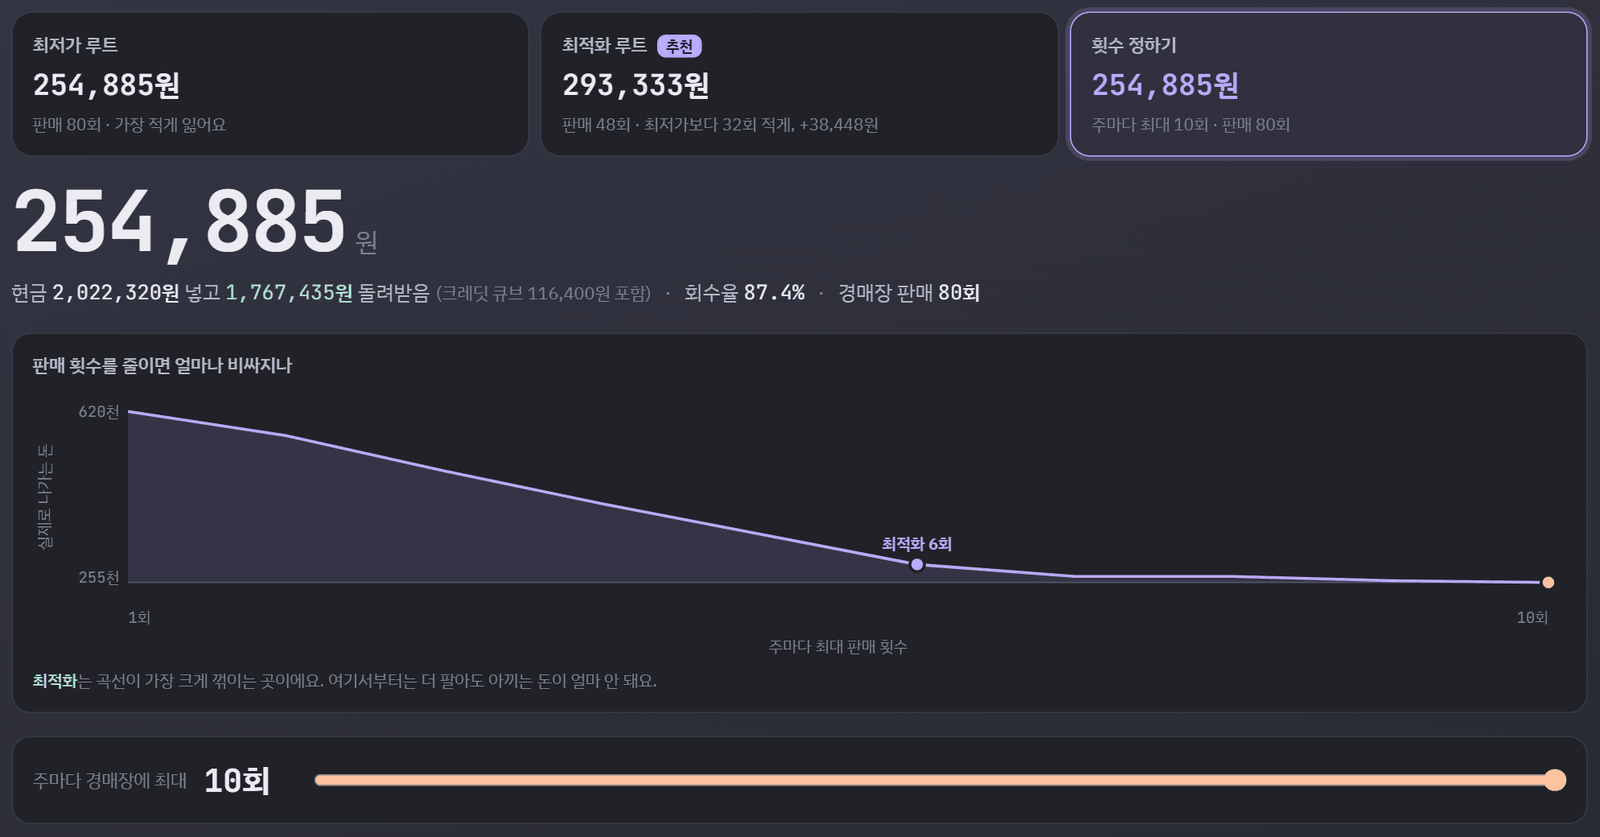
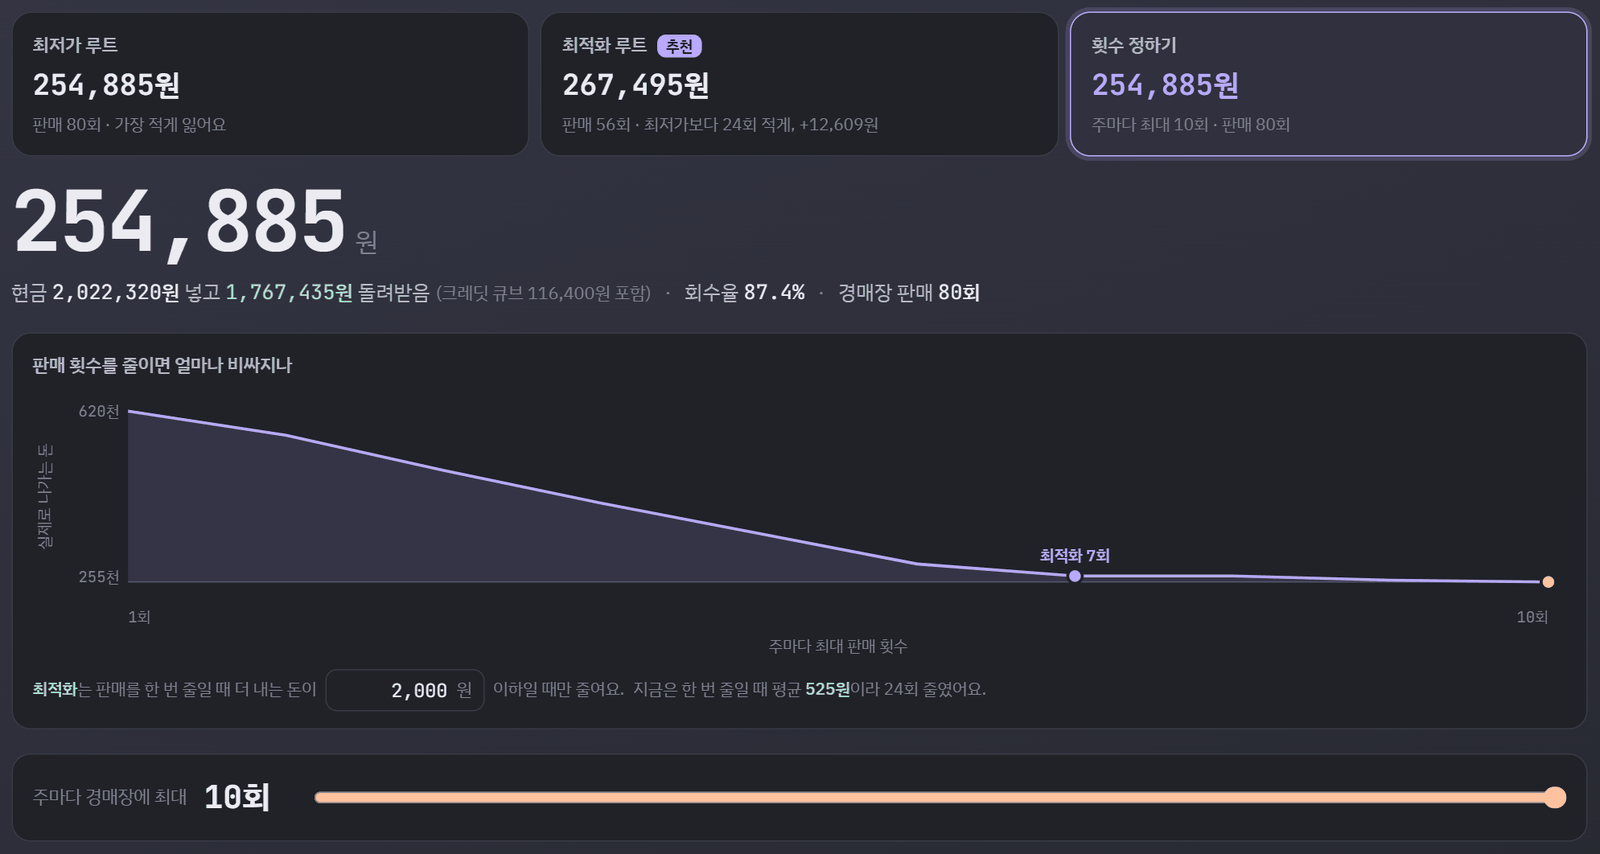
최적화 수고비 기본값을 2,000원으로 하고 소개글 그림을 새로 찍는다

diff --git a/docs/post/eff-inven.html b/docs/post/eff-inven.html
@@ -1,0 +1,102 @@
+<div style="font-size:16px; line-height:1.75; color:#22252b;">
+
+<div style="background:#1b1c21; border-radius:12px; padding:22px; margin:0 0 26px; text-align:center;">
+<a href="https://maple-mvp.com" target="_blank" style="font-size:29px; font-weight:700; color:#b8a8ff; letter-spacing:-0.5px; text-decoration:none;">maple-mvp.com</a>
+<div style="margin-top:6px; font-size:14px; color:#9a9cab;">위쪽 탭에서 <b style="color:#ecebf2;">효율표</b>를 누르세요</div>
+</div>
+
+<div style="margin-bottom:16px;">안녕하세요. 지난번에 올렸던 MVP 현황/목표 계산기에 <b>엠작 효율표</b>를 붙였습니다.</div>
+<div style="margin-bottom:20px;">엠작 계산기들이 회수율 %는 알려 주는데, 막상 "그래서 실제로 얼마가 나가는데? 뭘 몇 개 사서 어떻게 팔아야 하는데?"는 직접 조합해 봐야 하더라고요. 그걸 한 화면에서 끝내 주는 탭입니다.</div>
+
+<ul style="margin:0 0 20px; padding-left:22px;">
+<li style="margin-bottom:6px;"><b>플가 가격 하나만 넣으면</b> 다른 아이템마다 "이 가격 넘으면 플가보다 이득"인 기준가가 붙어요</li>
+<li style="margin-bottom:6px;">가장 적게 잃는 <b>최저가 루트</b>, 판매 횟수까지 따진 <b>최적화 루트</b>, 직접 정하는 <b>횟수 정하기</b></li>
+<li style="margin-bottom:6px;">상품권은 <b>실제로 사는 대로</b> 계산 (5만원권 먼저, 3천 원 단위, 달마다 20만 원 한도)</li>
+<li style="margin-bottom:6px;"><b>메이플 크레딧</b>으로 큐브 사서 파는 것까지 포함</li>
+<li style="margin-bottom:6px;"><b>목표 계획과 연동</b>하면 주마다 무엇을 얼마나 충전하고 사서 팔지 주별로</li>
+</ul>
+
+<div style="font-size:14px; color:#7b7c8a; margin-bottom:8px;">엄 시세·메소마켓·경매장 가격은 직접 넣는 방식이에요. 넥슨이 공식으로 주는 시세 데이터가 없어서요.</div>
+
+
+<div style="font-size:22px; font-weight:700; border-left:4px solid #6a4fd6; padding-left:11px; margin:38px 0 14px;">1. 입력은 위쪽 세 칸</div>
+<div style="margin-bottom:14px;">얼마나 결제할지, 캐시는 얼마에 충전하는지, 시세. 이 세 가지만 넣으면 돼요.</div>
+<img src="https://maple-mvp.com/post/eff/1-inputs.png" alt="입력 칸" style="width:100%; max-width:800px;">
+<ul style="margin:14px 0 0; padding-left:22px;">
+<li style="margin-bottom:6px;">목표 계획이 있으면 <b>목표 계획대로</b>, 없으면 <b>금액 직접</b>. 내 13주 합계 기준으로 "다이아까지 / 레드까지 / 블랙까지" 버튼도 있어요.</li>
+<li style="margin-bottom:6px;">상품권 할인은 <b>6</b>처럼 %로 넣어도, <b>47,000</b>처럼 5만원권 가격으로 넣어도 돼요.</li>
+<li style="margin-bottom:6px;">경매장 수수료는 계획대로일 땐 <b>자동</b>(사는 순간 오를 등급 기준, 실버 이상 3%), 금액 직접일 땐 3%/5% 중에 골라요.</li>
+</ul>
+
+
+<div style="font-size:22px; font-weight:700; border-left:4px solid #6a4fd6; padding-left:11px; margin:38px 0 14px;">2. 플가 가격 하나로 기준가</div>
+<div style="margin-bottom:14px;">왼쪽에 플가 가격만 넣으면, 아이템마다 흐린 숫자로 <b>이 가격 넘으면 플가보다 이득</b>인 기준가가 들어가요. 경매장에서 그보다 비싸게 올라온 것만 가격을 넣으면 됩니다.</div>
+<img src="https://maple-mvp.com/post/eff/2-table.png" alt="플가 기준 가격표" style="width:100%; max-width:800px;">
+<ul style="margin:14px 0 0; padding-left:22px;">
+<li style="margin-bottom:6px;">플가 줄을 경계로 위는 <b style="color:#1f8f67;">이득(초록)</b>, 아래는 <b style="color:#c26a32;">손해(주황)</b>. 플가 가격을 바꾸면 바로 다시 줄 서요.</li>
+<li style="margin-bottom:6px;"><b>플가 가격으로</b> 버튼을 누르면 "이 가격이면 플가를 몇 억에 판 셈인지"로 바꿔 볼 수 있어요.</li>
+<li style="margin-bottom:6px;">7일 / 14일 / 30일 / 무기한 사용 기간도 같이 보여요. 손해 보는 아이템은 숨길 수 있어요.</li>
+</ul>
+<div style="margin-top:14px;"><img src="https://maple-mvp.com/post/eff/2b-table-hidden.png" alt="손해 아이템 숨기기" style="width:100%; max-width:740px;"></div>
+
+
+<div style="font-size:22px; font-weight:700; border-left:4px solid #6a4fd6; padding-left:11px; margin:38px 0 14px;">3. 메이플 크레딧까지</div>
+<img src="https://maple-mvp.com/post/eff/5b-credit.png" alt="메이플 크레딧" style="width:100%; max-width:800px;">
+<ul style="margin:14px 0 0; padding-left:22px;">
+<li style="margin-bottom:6px;">캐시템을 산 금액의 5%가 크레딧으로 쌓여요. 남아 있던 크레딧도 합쳐서 계산해요.</li>
+<li style="margin-bottom:6px;">큐브 경매장 가격을 넣으면 크레딧당 효율이 가장 좋은 걸로 사서 파는 것까지 결과에 들어가요.</li>
+<li style="margin-bottom:6px;">끝에 남는 크레딧은 <b>다 털기 / 모아 두기</b> 중에 골라요. 모아 두면 에디셔널 큐브만 사고, 나머지는 다음 작 때 합쳐요.</li>
+</ul>
+
+
+<div style="font-size:22px; font-weight:700; border-left:4px solid #6a4fd6; padding-left:11px; margin:38px 0 14px;">4. 결론: 실제로 나가는 돈과 루트 3개</div>
+<div style="margin-bottom:14px;">가장 크게 보이는 숫자가 <b>실제로 나가는 돈</b>(넣은 현금 − 돌려받는 돈)이에요.</div>
+<img src="https://maple-mvp.com/post/eff/3-result.png" alt="결론" style="width:100%; max-width:800px;">
+<ul style="margin:14px 0 0; padding-left:22px;">
+<li style="margin-bottom:6px;"><b>최저가 루트</b>: 판매 횟수는 따지지 않고 가장 적게 잃는 조합</li>
+<li style="margin-bottom:6px;"><b>최적화 루트</b>: 판매를 한 번 줄일 때 더 드는 돈이 <b>판매 1회 수고비(기본 2,000원)</b> 이하일 때만 줄인 조합. 수고비는 직접 바꿀 수 있어요.</li>
+<li style="margin-bottom:6px;">그래프로 판매 횟수를 줄이면 얼마나 비싸지는지 한눈에 보여요.</li>
+</ul>
+<div style="margin:18px 0 14px;">그 아래에 <b>그대로 따라 하면 되는 순서</b>가 나와요.</div>
+<img src="https://maple-mvp.com/post/eff/5-route.png" alt="따라 할 순서" style="width:100%; max-width:800px;">
+
+
+<div style="font-size:22px; font-weight:700; border-left:4px solid #6a4fd6; padding-left:11px; margin:38px 0 14px;">5. 목표 계획과 이으면 주별로</div>
+<div style="margin-bottom:14px;">"11월 18일까지 블랙" 같은 계획이 있으면, 계획의 주별 금액 그대로 주마다 무엇을 얼마나 충전하고 사서 팔지 나눠 줘요.</div>
+<img src="https://maple-mvp.com/post/eff/8-plan-result.png" alt="계획 결론" style="width:100%; max-width:800px;">
+<div style="margin-top:14px;"><img src="https://maple-mvp.com/post/eff/9-weeks.png" alt="주별 표" style="width:100%; max-width:800px;"></div>
+<ul style="margin:14px 0 0; padding-left:22px;">
+<li style="margin-bottom:6px;">상품권은 할인이 큰 것부터, 그 달 한도가 남은 주에 써요. 달이 바뀌면 한도가 새로 생겨요.</li>
+<li style="margin-bottom:6px;">크레딧은 주마다 모아 가며 가장 효율적으로 털어요.</li>
+<li style="margin-bottom:6px;">줄을 누르면 그 주에 할 일(충전 → 구매 → 판매)이 아래에 나와요.</li>
+</ul>
+
+
+<div style="font-size:22px; font-weight:700; border-left:4px solid #6a4fd6; padding-left:11px; margin:38px 0 14px;">6. 판매 횟수 정하기</div>
+<div style="margin-bottom:14px;">"경매장에 몇십 번 올리긴 귀찮다" 하시면 판매 횟수를 정해 두고 그 안에서 가장 많이 남는 조합을 볼 수 있어요. 최저가보다 얼마 더 드는지도 같이 나와요.</div>
+<img src="https://maple-mvp.com/post/eff/10-count.png" alt="판매 횟수 정하기" style="width:100%; max-width:800px;">
+<div style="margin-top:14px;"><img src="https://maple-mvp.com/post/eff/4-cautions.png" alt="주의 문구" style="width:100%; max-width:800px;"></div>
+<div style="font-size:14px; color:#7b7c8a; margin-top:10px;">판매 횟수는 경매장에 올리는 횟수만 세요. 얼마나 빨리 팔리는지(회전율)는 계산에 없으니 실제로 팔리는 속도를 보고 고르세요.<br>플가·원더베리처럼 낱개로 많이 파는 루트는 엠작이 몰리는 주 초반·월초에 시세가 떨어질 수 있어요.</div>
+
+
+<div style="font-size:22px; font-weight:700; border-left:4px solid #6a4fd6; padding-left:11px; margin:38px 0 14px;">7. 나에게 맞는 방법</div>
+<div style="margin-bottom:14px;">천천히 기다릴 수 있는지, 빨리 메소로 바꾸고 싶은지, 판매 횟수를 줄이고 싶은지에 따라 맞는 아이템과 그때 얼마가 나가는지 보여 줘요.</div>
+<img src="https://maple-mvp.com/post/eff/6-styles.png" alt="나에게 맞는 방법" style="width:100%; max-width:800px;">
+
+
+<div style="font-size:22px; font-weight:700; border-left:4px solid #6a4fd6; padding-left:11px; margin:38px 0 14px;">8. 목록에 없는 아이템은 직접 추가</div>
+<div style="margin-bottom:14px;">이름, 캐시 가격, 묶음 개수, 사용 기간만 넣으면 플가 기준가가 자동으로 붙고 계산에 들어가요.</div>
+<img src="https://maple-mvp.com/post/eff/7-add.png" alt="직접 추가" style="width:100%; max-width:740px;">
+
+
+<div style="font-size:22px; font-weight:700; border-left:4px solid #6a4fd6; padding-left:11px; margin:38px 0 14px;">알아 두실 것</div>
+<ul style="margin:0; padding-left:22px;">
+<li style="margin-bottom:6px;">넣은 값은 이 브라우저에 저장되고, <b>로그인하면 계정에도 저장</b>돼서 다른 기기에서도 이어서 쓸 수 있어요.</li>
+<li style="margin-bottom:6px;">시세는 "며칠 전에 넣은 값"으로 표시돼요. 오래된 값이면 새로 넣어 주세요.</li>
+<li style="margin-bottom:6px;">크레딧은 캐시샵 아이템을 살 때만 쌓인다고 보고 계산해요(메이플포인트로 사는 메소마켓 몫은 빼요).</li>
+<li style="margin-bottom:6px;">위 그림의 숫자는 예시예요.</li>
+</ul>
+
+<div style="margin-top:28px;">써 보시고 이상한 점이나 추가됐으면 하는 아이템 있으면 댓글로 알려 주세요!</div>
+
+</div>

diff --git a/frontend/src/lib/eff.svelte.ts b/frontend/src/lib/eff.svelte.ts
@@ -57,8 +57,11 @@ interface Saved {
   creditCustom: Omit<CreditItem, 'price'>[]
   /** 끝에 남는 크레딧을 털지 않고 모아 둘지 */
   creditKeep: boolean
-  /** 판매 1회 수고비. 최적화 루트는 한 번 덜 팔 때 이보다 더 내야 하면 줄이지 않는다 */
-  saleCost: number
+  /**
+   * 판매 1회 수고비. 최적화 루트는 한 번 덜 팔 때 이보다 더 내야 하면 줄이지 않는다.
+   * 기본값을 1,000원에서 2,000원으로 바꾸며 이름도 바꿨다. 옛 이름에 남은 1,000원은 버리고 새 기본값에서 시작한다
+   */
+  sellCost: number
 }
 
 function fresh(): Saved {
@@ -68,7 +71,7 @@ function fresh(): Saved {
     leftNow: Object.fromEntries(CARDS.map(c => [c.key, MONTHLY])), leftMonth: thisMonth(),
     barcodeOn: true, barcodeWant: null, weekBarcode: {},
     um: 0, mk: 0, at: {}, prices: {}, feeOverride: null, want: 'best', salesN: 10, pgView: 'ratio', custom: [], hideLoss: false,
-    creditOn: true, creditBalance: 0, creditPrices: { prime: 6, primeadd: 16 }, creditCustom: [], creditKeep: false, saleCost: 1000,
+    creditOn: true, creditBalance: 0, creditPrices: { prime: 6, primeadd: 16 }, creditCustom: [], creditKeep: false, sellCost: 2000,
   }
 }
 
@@ -77,7 +80,8 @@ function load(): Saved {
   try {
     const raw = localStorage.getItem(KEY)
     if (!raw) return base
-    const s = { ...base, ...JSON.parse(raw) } as Saved & { held?: { cash: number } }
+    const s = { ...base, ...JSON.parse(raw) } as Saved & { held?: { cash: number }; saleCost?: number }
+    delete s.saleCost
     // 크레딧이 생기기 전에 저장한 값에는 큐브 가격이 없다. 기본값을 채워 둔다
     s.creditPrices = { ...base.creditPrices, ...s.creditPrices }
     // 예전 '이미 충전한 캐시'는 캐시 잔액으로 옮긴다
@@ -245,7 +249,7 @@ export function computeEff(d: State, plan: PlanResult | null): EffOut | null {
   if (!res) return null
 
   // 판매 횟수별 전체 손실. 주마다 같은 상한을 건다
-  const { curve, lo, hi, best, knee: kp, count: cp } = routesOf(res, eff.salesN, credit, eff.saleCost)
+  const { curve, lo, hi, best, knee: kp, count: cp } = routesOf(res, eff.salesN, credit, eff.sellCost)
 
   const alt = (items: Sellable[]): Summary | null => {
     if (!items.some(x => x.price > 0) && !eff.mk) return null

diff --git a/frontend/src/lib/components/EffResult.svelte b/frontend/src/lib/components/EffResult.svelte
@@ -141,7 +141,7 @@
         </svg>
         <div class="ef-hint cost">
           <span><b>최적화</b>는 판매를 한 번 줄일 때 더 내는 돈이</span>
-          <span class="box"><NumBox id="eff-sale-cost" label="판매 1회 수고비" size="sm" unit="원" placeholder="1,000" value={eff.saleCost} set={v => { eff.saleCost = v; saveEff() }} /></span>
+          <span class="box"><NumBox id="eff-sale-cost" label="판매 1회 수고비" size="sm" unit="원" placeholder="2,000" value={eff.sellCost} set={v => { eff.sellCost = v; saveEff() }} /></span>
           <span>이하일 때만 줄여요.</span>
           {#if out.knee.sales < out.best.sales}
             <span>지금은 한 번 줄일 때 평균 <b>{won((out.knee.loss - out.best.loss) / (out.best.sales - out.knee.sales))}원</b>이라 {out.best.sales - out.knee.sales}회 줄였어요.</span>

diff --git a/frontend/src/lib/core/efficiency.ts b/frontend/src/lib/core/efficiency.ts
@@ -475,7 +475,7 @@ export function pickAt(weeks: WeekResult[], n: number | null, credit: CreditUse 
  * curve[n] = 주마다 판매 n회까지로 할 때 전체 잃는 돈 (n은 lo..hi)
  */
 /** perSale: 판매 1회 수고비. 최적화 루트는 한 번 덜 팔 때 이보다 더 내야 하면 줄이지 않는다 */
-export function routesOf(res: WeekResult[], salesN: number, credit: CreditUse | null = null, perSale = 1000) {
+export function routesOf(res: WeekResult[], salesN: number, credit: CreditUse | null = null, perSale = 2000) {
   const hi = Math.max(1, ...res.map(w => w.solved.best.sales))
   // 크레딧을 쓰면 조합은 크레딧 어림값으로 골랐어도, 곡선은 큐브를 실제로 살 수 있는 만큼 산 값으로 그린다.
   // 그래야 그래프와 루트 카드의 숫자가 같다

diff --git a/frontend/src/lib/core/efficiency.scenario.test.ts b/frontend/src/lib/core/efficiency.scenario.test.ts
@@ -108,8 +108,8 @@ function run(c: Case) {
   near(r.knee.loss, r.curve[r.knee.n!], 1)
   near(r.count.loss, r.curve[r.count.n!], 1)
   expect(r.knee.sales).toBeLessThanOrEqual(r.best.sales)
-  // 최적화: 최저가보다 더 내는 돈이 줄인 판매 횟수 × 수고비(1,000원) 이하
-  expect(r.knee.loss - r.best.loss).toBeLessThanOrEqual((r.best.sales - r.knee.sales) * 1000 + 0.5)
+  // 최적화: 최저가보다 더 내는 돈이 줄인 판매 횟수 × 수고비(기본 2,000원) 이하
+  expect(r.knee.loss - r.best.loss).toBeLessThanOrEqual((r.best.sales - r.knee.sales) * 2000 + 0.5)
   // 주마다 판매 n회 제한을 지킨다
   for (const { route } of r.count.weeks) expect(route.sales).toBeLessThanOrEqual(Math.max(r.count.n!, r.lo))
   return { p, res: res!, r }
